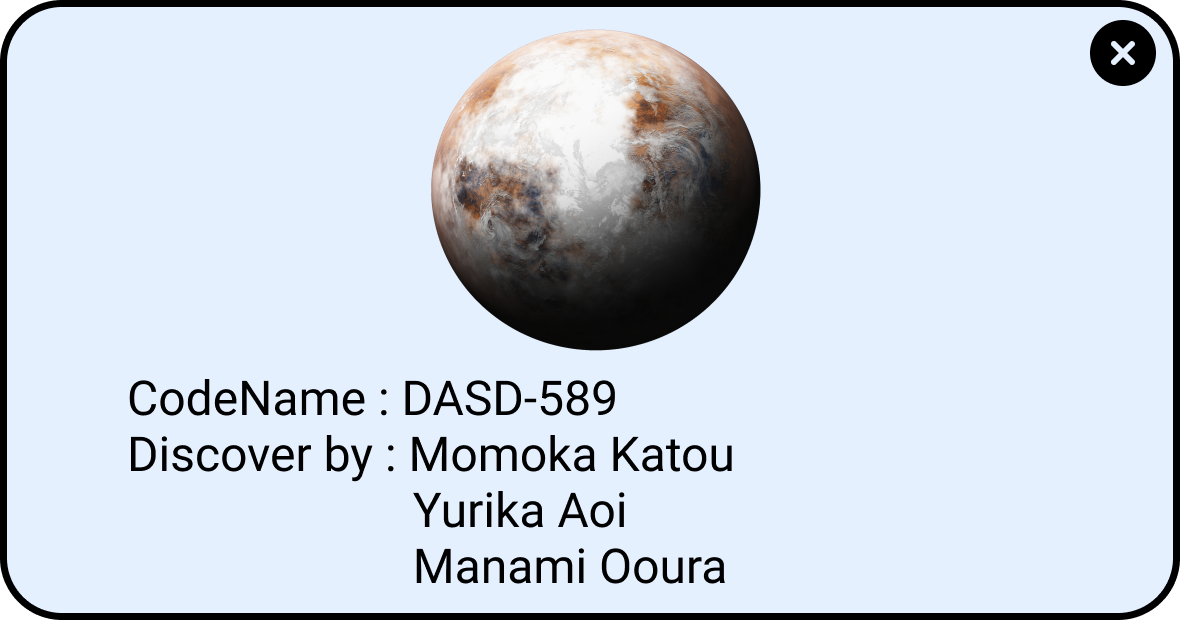
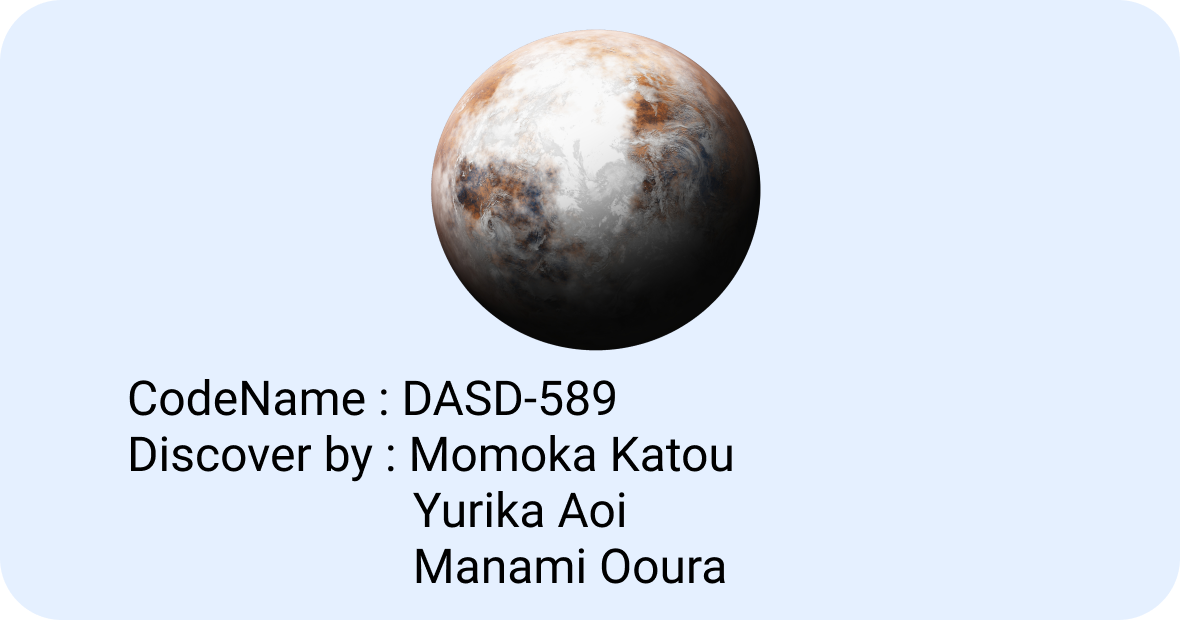
debug img Size

Changed region(s): [[0.0, 0.0, 1.0, 0.9806], [0.0305, 0.9806, 0.9763, 1.0]]

diff --git a/StarCollector/Screen/CollectionScreen.cs b/StarCollector/Screen/CollectionScreen.cs
@@ -109,7 +109,10 @@ namespace StarCollector.Screen
 			// Draw About Screen
 			if (showWarbOne)
 			{
-				_spriteBatch.Draw(detailsWarpOne, new Rectangle(50, 50, 1280 - 100, 720 - 100), Color.White);
+				//Draw details Star 1
+				_spriteBatch.Draw(detailsWarpOne, new Rectangle(57, 57, 1280 - 114, 720 - 114), Color.White);
+				//Draw Leave Button
+				_spriteBatch.Draw(leave, new Rectangle(1140, 70, leave.Width, leave.Height), Color.White);
 			}
 			
 			
